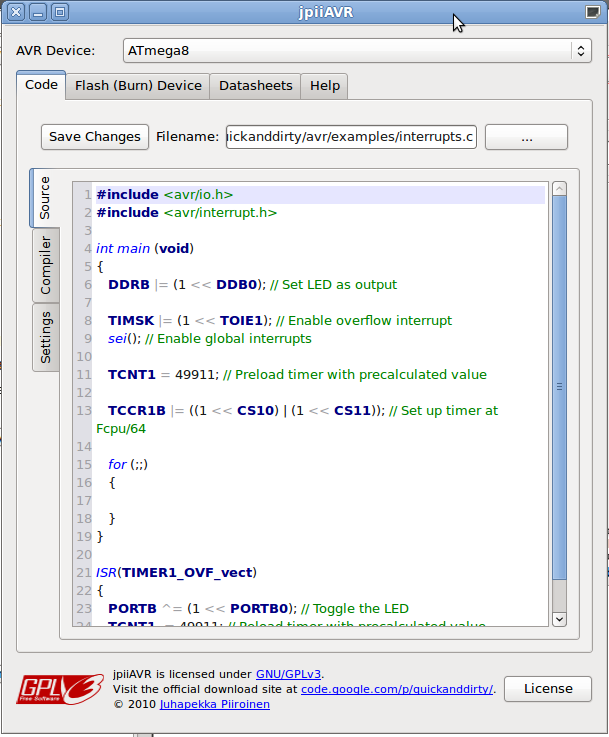
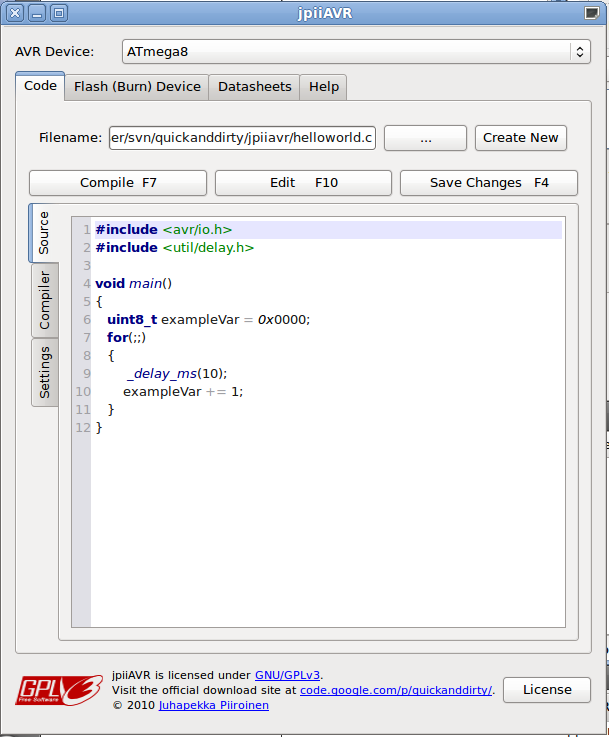
improved highlighter, mainwindow and template. new screenshot.

Changed region(s): [[0.0, 0.0, 1.0, 1.0]]

diff --git a/jpiiavr/highlighter.cpp b/jpiiavr/highlighter.cpp
@@ -20,6 +20,13 @@ Highlighter::Highlighter(QTextDocument *parent) : QSyntaxHighlighter(parent)
     DIN
         HighlightingRule rule;
 
+            functionFormat.setFontItalic(true);
+        functionFormat.setForeground(Qt::darkBlue);
+        rule.pattern = QRegExp("\\b[A-Za-z0-9_]+[ ]?(?=\\()");
+        rule.format = functionFormat;
+        highlightingRules.append(rule);
+
+
         keywordFormat.setForeground(Qt::darkBlue);
         keywordFormat.setFontWeight(QFont::Bold);
         QStringList keywordPatterns;
@@ -84,11 +91,6 @@ Highlighter::Highlighter(QTextDocument *parent) : QSyntaxHighlighter(parent)
         rule.format = quotationFormat;
         highlightingRules.append(rule);
 
-        functionFormat.setFontItalic(true);
-        functionFormat.setForeground(Qt::blue);
-        rule.pattern = QRegExp("\\b[A-Za-z0-9_ ]+(?=\\()");
-        rule.format = functionFormat;
-        highlightingRules.append(rule);
 
         operatorFormat.setFontItalic(true);
         operatorFormat.setForeground(QColor(Qt::gray));
@@ -103,6 +105,11 @@ Highlighter::Highlighter(QTextDocument *parent) : QSyntaxHighlighter(parent)
 
         operatorFormat.setForeground(Qt::red);
         rule.pattern = QRegExp("[~!]+");
+        rule.format = operatorFormat;
+        highlightingRules.append(rule);
+
+        operatorFormat.setForeground(QColor(Qt::black));
+        rule.pattern = QRegExp("\\b0[x,b]+");
         rule.format = operatorFormat;
         highlightingRules.append(rule);
 
